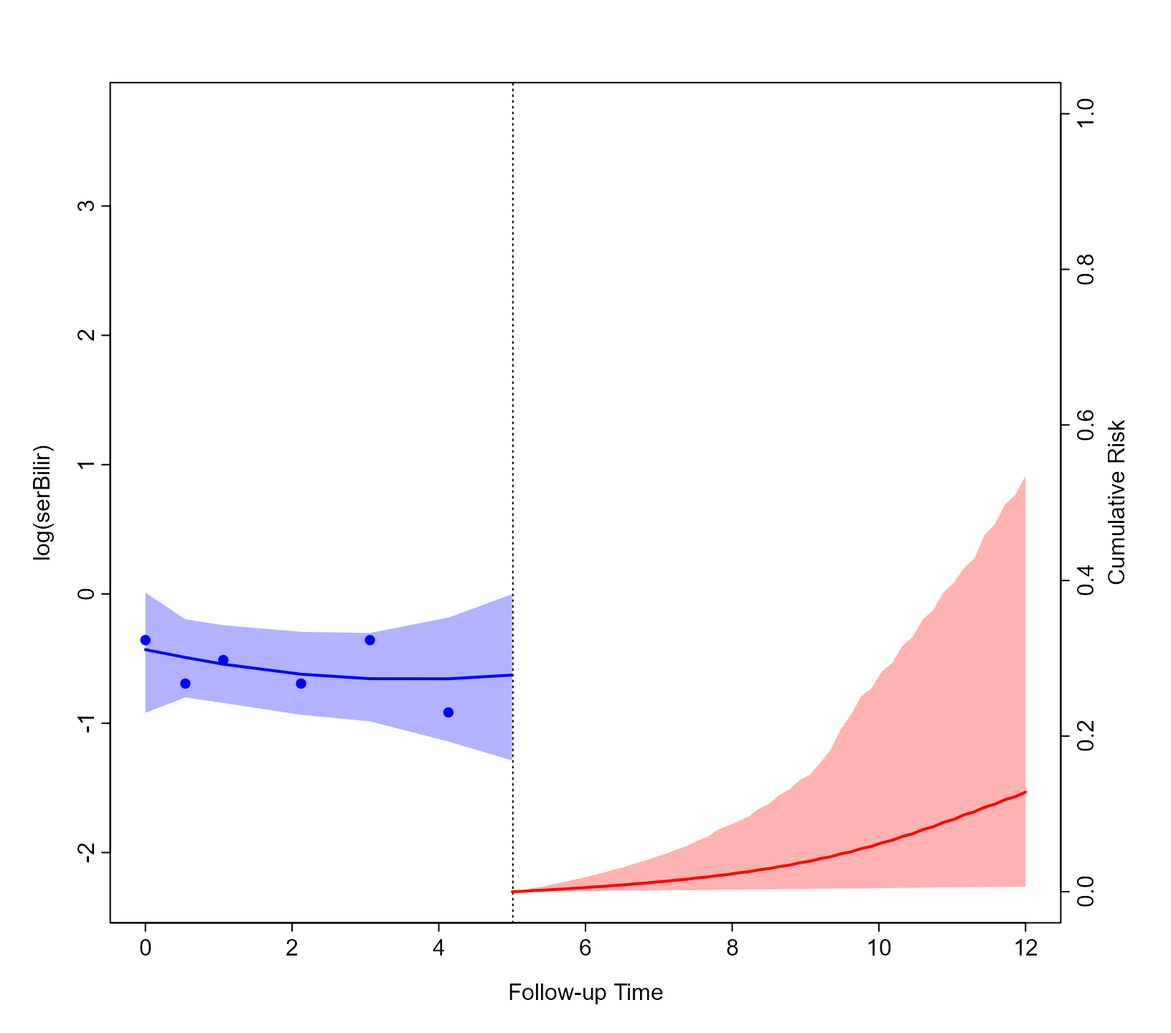
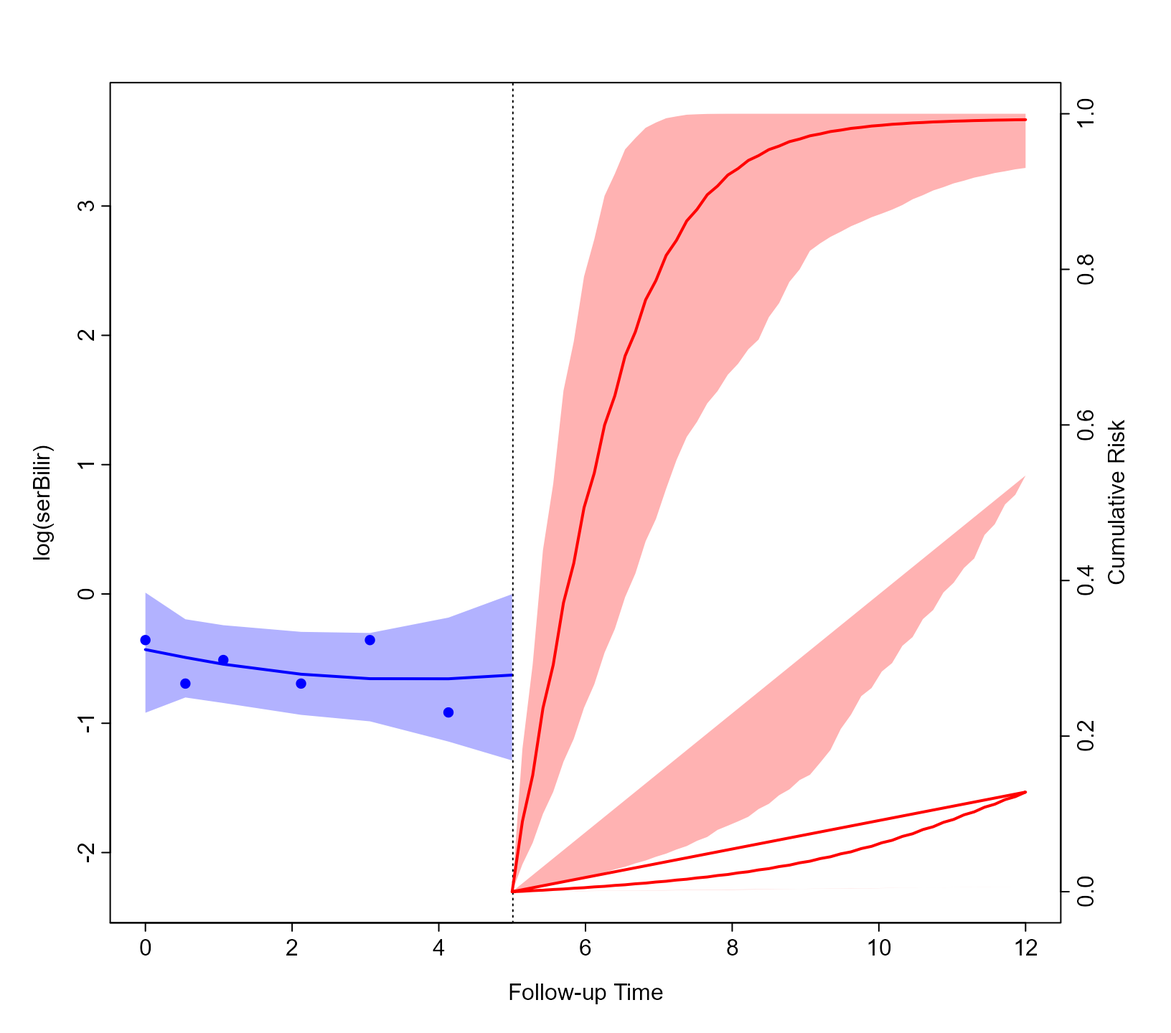
updates

Changed region(s): [[0.4375, 0.0938, 0.875, 0.875]]

diff --git a/docs/articles/Dynamic_Predictions.html b/docs/articles/Dynamic_Predictions.html
@@ -53,7 +53,7 @@
       </button>
       <span class="navbar-brand">
         <a class="navbar-link" href="../index.html">JMbayes2</a>
-        <span class="version label label-default" data-toggle="tooltip" data-placement="bottom" title="">0.1-84</span>
+        <span class="version label label-default" data-toggle="tooltip" data-placement="bottom" title="">0.1-85</span>
       </span>
     </div>
 
@@ -122,7 +122,7 @@
       <h1 data-toc-skip>Dynamic Predictions</h1>
                         <h4 data-toc-skip class="author">Dimitris Rizopoulos</h4>
             
-            <h4 data-toc-skip class="date">2021-12-08</h4>
+            <h4 data-toc-skip class="date">2021-12-17</h4>
       
       <small class="dont-index">Source: <a href="https://github.com/drizopoulos/JMbayes2/blob/HEAD/vignettes/Dynamic_Predictions.Rmd" class="external-link"><code>vignettes/Dynamic_Predictions.Rmd</code></a></small>
       <div class="hidden name"><code>Dynamic_Predictions.Rmd</code></div>
@@ -218,9 +218,11 @@
      fill_CI_long <span class="op">=</span> <span class="fu"><a href="https://rdrr.io/r/base/c.html" class="external-link">c</a></span><span class="op">(</span><span class="st">"#F25C7880"</span>, <span class="st">"#D973B580"</span>, <span class="st">"#F2832280"</span><span class="op">)</span>,
      fill_CI_event <span class="op">=</span> <span class="st">"#F7F7FF80"</span>,
      pos_ylab_long <span class="op">=</span> <span class="fu"><a href="https://rdrr.io/r/base/c.html" class="external-link">c</a></span><span class="op">(</span><span class="fl">1.9</span>, <span class="fl">1.9</span>, <span class="fl">0.08</span><span class="op">)</span><span class="op">)</span></code></pre></div>
+<pre><code><span class="co">#&gt; Warning in min(x): no non-missing arguments to min; returning Inf</span>
+<span class="co">#&gt; Warning in max(x): no non-missing arguments to max; returning -Inf</span></code></pre>
 <p><img src="Dynamic_Predictions_files/figure-html/unnamed-chunk-12-1.png" width="816" style="display: block; margin: auto;"></p>
 <p>We evaluate the discriminative capability of the model using ROC methodology. We calculate the components of the ROC curve using information up to year five, and we are interested in events occurring within a three-year window. That is discriminating between patients who will get the event in the interval <code>(t0, t0 + Dt]</code>, (i.e., in our case <span class="math inline">\(T_j \in (5, 8]\)</span>) from patients who will survive at least 9 years (i.e., <span class="math inline">\(T_j &gt; 8\)</span>). The calculations are performed with the following call to <code><a href="../reference/accuracy.html">tvROC()</a></code>:</p>
-<div class="sourceCode" id="cb12"><pre class="downlit sourceCode r">
+<div class="sourceCode" id="cb13"><pre class="downlit sourceCode r">
 <code class="sourceCode R"><span class="va">pbc2</span><span class="op">$</span><span class="va">event</span> <span class="op">&lt;-</span> <span class="fu"><a href="https://rdrr.io/r/base/numeric.html" class="external-link">as.numeric</a></span><span class="op">(</span><span class="va">pbc2</span><span class="op">$</span><span class="va">status</span> <span class="op">!=</span> <span class="st">"alive"</span><span class="op">)</span>
 <span class="va">roc</span> <span class="op">&lt;-</span> <span class="fu"><a href="../reference/accuracy.html">tvROC</a></span><span class="op">(</span><span class="va">jointFit</span>, newdata <span class="op">=</span> <span class="va">pbc2</span>, Tstart <span class="op">=</span> <span class="va">t0</span>, Dt <span class="op">=</span> <span class="fl">3</span><span class="op">)</span>
 <span class="va">roc</span>
@@ -297,7 +299,7 @@
 <span class="co">#&gt; 64    0.98 1.00000000 0.01297720 1.00000000 0.003106970</span></code></pre></div>
 <p>In the first line we define the event indicator as we did in the <code>pbc2.id</code> data.frame. The cut-point with the asterisk on the right maximizes the <a href="https://en.wikipedia.org/wiki/Youden%27s_J_statistic" class="external-link">Youden’s index</a>. To depict the ROC curve, we use the corresponding <code><a href="https://rdrr.io/r/graphics/plot.default.html" class="external-link">plot()</a></code> method: <img src="Dynamic_Predictions_files/figure-html/unnamed-chunk-14-1.png" width="816" style="display: block; margin: auto;"></p>
 <p>The area under the ROC curve is calculated with the <code><a href="../reference/accuracy.html">tvAUC()</a></code> function:</p>
-<div class="sourceCode" id="cb13"><pre class="downlit sourceCode r">
+<div class="sourceCode" id="cb14"><pre class="downlit sourceCode r">
 <code class="sourceCode R"><span class="fu"><a href="../reference/accuracy.html">tvAUC</a></span><span class="op">(</span><span class="va">roc</span><span class="op">)</span>
 <span class="co">#&gt; </span>
 <span class="co">#&gt;  Time-dependent AUC for the Joint Model jointFit</span>
@@ -308,12 +310,12 @@
 <p>This function either accepts an object of class <code>tvROC</code> or of class <code>jm</code>. In the latter case, the user must also provide the <code>newdata</code>, <code>Tstart</code> and <code>Dt</code> or <code>Thoriz</code> arguments. Here we have used the same dataset as the one to fit the model, but, in principle, discrimination could be (better) assessed in another dataset.</p>
 <p>To assess the accuracy of the predictions we produce a calibration plot: <img src="Dynamic_Predictions_files/figure-html/unnamed-chunk-16-1.png" width="816" style="display: block; margin: auto;"></p>
 <p>The syntax of the <code><a href="../reference/accuracy.html">calibration_plot()</a></code> function is almost identical to that of <code><a href="../reference/accuracy.html">tvROC()</a></code>. The kernel density estimation is of the estimated probabilities <span class="math inline">\(\pi_j(t + \Delta t \mid t) = \pi_j(8 \mid 5)\)</span> for all individuals at risk at year <code>t0</code> in the data frame provided in the <code>newdata</code> argument. Using the <code><a href="../reference/accuracy.html">calibration_metrics()</a></code> function we can also calculate metrics for the accuracy of predictions:</p>
-<div class="sourceCode" id="cb14"><pre class="downlit sourceCode r">
+<div class="sourceCode" id="cb15"><pre class="downlit sourceCode r">
 <code class="sourceCode R"><span class="fu"><a href="../reference/accuracy.html">calibration_metrics</a></span><span class="op">(</span><span class="va">jointFit</span>, <span class="va">pbc2</span>, Tstart <span class="op">=</span> <span class="fl">5</span>, Dt <span class="op">=</span> <span class="fl">3</span><span class="op">)</span>
 <span class="co">#&gt;        ICI        E50        E90 </span>
 <span class="co">#&gt; 0.04776743 0.02707094 0.12397622</span></code></pre></div>
 <p>The ICI is the mean absolute difference between the observed and predicted probabilities, E50 is the median absolute difference, and E90 is the 90% percentile of the absolute differences. Finally, we calculate the Brier score as an overall measure of predictive performance. This is computed with the <code><a href="../reference/accuracy.html">tvBrier()</a></code> function:</p>
-<div class="sourceCode" id="cb15"><pre class="downlit sourceCode r">
+<div class="sourceCode" id="cb16"><pre class="downlit sourceCode r">
 <code class="sourceCode R"><span class="fu"><a href="../reference/accuracy.html">tvBrier</a></span><span class="op">(</span><span class="va">jointFit</span>, newdata <span class="op">=</span> <span class="va">pbc2</span>, Tstart <span class="op">=</span> <span class="va">t0</span>, Dt <span class="op">=</span> <span class="fl">3</span><span class="op">)</span>
 <span class="co">#&gt; </span>
 <span class="co">#&gt; Prediction Error for the Joint Model jointFit</span>

diff --git a/docs/articles/Competing_Risks.html b/docs/articles/Competing_Risks.html
@@ -53,7 +53,7 @@
       </button>
       <span class="navbar-brand">
         <a class="navbar-link" href="../index.html">JMbayes2</a>
-        <span class="version label label-default" data-toggle="tooltip" data-placement="bottom" title="">0.1-84</span>
+        <span class="version label label-default" data-toggle="tooltip" data-placement="bottom" title="">0.1-85</span>
       </span>
     </div>
 
@@ -122,7 +122,7 @@
       <h1 data-toc-skip>Competing Risks</h1>
                         <h4 data-toc-skip class="author">Dimitris Rizopoulos</h4>
             
-            <h4 data-toc-skip class="date">2021-12-08</h4>
+            <h4 data-toc-skip class="date">2021-12-17</h4>
       
       <small class="dont-index">Source: <a href="https://github.com/drizopoulos/JMbayes2/blob/HEAD/vignettes/Competing_Risks.Rmd" class="external-link"><code>vignettes/Competing_Risks.Rmd</code></a></small>
       <div class="hidden name"><code>Competing_Risks.Rmd</code></div>
@@ -242,7 +242,25 @@
 <span class="co">#&gt; iterations per chain: 25000 </span>
 <span class="co">#&gt; burn-in per chain: 5000 </span>
 <span class="co">#&gt; thinning: 5 </span>
-<span class="co">#&gt; time: 9.5 min</span></code></pre></div>
+<span class="co">#&gt; time: 7.6 min</span></code></pre></div>
+</div>
+<div class="section level2">
+<h2 id="dynamic-predictions">Dynamic Predictions<a class="anchor" aria-label="anchor" href="#dynamic-predictions"></a>
+</h2>
+<div class="sourceCode" id="cb6"><pre class="downlit sourceCode r">
+<code class="sourceCode R"><span class="va">ND_long</span> <span class="op">&lt;-</span> <span class="va">pbc2</span><span class="op">[</span><span class="va">pbc2</span><span class="op">$</span><span class="va">id</span> <span class="op">==</span> <span class="fl">81</span>, <span class="op">]</span>
+<span class="va">ND_event</span> <span class="op">&lt;-</span> <span class="va">pbc2.idCR</span><span class="op">[</span><span class="va">pbc2.idCR</span><span class="op">$</span><span class="va">id</span> <span class="op">==</span> <span class="fl">81</span>, <span class="op">]</span>
+<span class="va">ND_event</span><span class="op">$</span><span class="va">status2</span> <span class="op">&lt;-</span> <span class="fl">0</span>
+<span class="va">ND</span> <span class="op">&lt;-</span> <span class="fu"><a href="https://rdrr.io/r/base/list.html" class="external-link">list</a></span><span class="op">(</span>newdataL <span class="op">=</span> <span class="va">ND_long</span>, newdataE <span class="op">=</span> <span class="va">ND_event</span><span class="op">)</span>
+
+<span class="va">predLong</span> <span class="op">&lt;-</span> <span class="fu"><a href="https://rdrr.io/r/stats/predict.html" class="external-link">predict</a></span><span class="op">(</span><span class="va">jFit_CR</span>, newdata <span class="op">=</span> <span class="va">ND</span>, return_newdata <span class="op">=</span> <span class="cn">TRUE</span>,
+                    times <span class="op">=</span> <span class="fu"><a href="https://rdrr.io/r/base/seq.html" class="external-link">seq</a></span><span class="op">(</span><span class="fl">6.5</span>, <span class="fl">15</span>, length <span class="op">=</span> <span class="fl">25</span><span class="op">)</span><span class="op">)</span>
+
+<span class="va">predEvent</span> <span class="op">&lt;-</span> <span class="fu"><a href="https://rdrr.io/r/stats/predict.html" class="external-link">predict</a></span><span class="op">(</span><span class="va">jFit_CR</span>, newdata <span class="op">=</span> <span class="va">ND</span>, return_newdata <span class="op">=</span> <span class="cn">TRUE</span>,
+                     process <span class="op">=</span> <span class="st">"event"</span><span class="op">)</span>
+
+<span class="fu"><a href="https://rdrr.io/r/graphics/plot.default.html" class="external-link">plot</a></span><span class="op">(</span><span class="va">predLong</span>, <span class="va">predEvent</span>, outcomes <span class="op">=</span> <span class="fl">1</span><span class="op">:</span><span class="fl">2</span><span class="op">)</span></code></pre></div>
+<p><img src="Competing_Risks_files/figure-html/unnamed-chunk-1-1.png" width="700"></p>
 </div>
 </div>
   </div>

diff --git a/docs/articles/JMbayes2.html b/docs/articles/JMbayes2.html
@@ -53,7 +53,7 @@
       </button>
       <span class="navbar-brand">
         <a class="navbar-link" href="../index.html">JMbayes2</a>
-        <span class="version label label-default" data-toggle="tooltip" data-placement="bottom" title="">0.1-84</span>
+        <span class="version label label-default" data-toggle="tooltip" data-placement="bottom" title="">0.1-85</span>
       </span>
     </div>
 
@@ -122,7 +122,7 @@
       <h1 data-toc-skip>Univariate and Multivariate Joint Models</h1>
                         <h4 data-toc-skip class="author">Dimitris Rizopoulos</h4>
             
-            <h4 data-toc-skip class="date">2021-12-08</h4>
+            <h4 data-toc-skip class="date">2021-12-17</h4>
       
       <small class="dont-index">Source: <a href="https://github.com/drizopoulos/JMbayes2/blob/HEAD/vignettes/JMbayes2.Rmd" class="external-link"><code>vignettes/JMbayes2.Rmd</code></a></small>
       <div class="hidden name"><code>JMbayes2.Rmd</code></div>
@@ -185,7 +185,7 @@
 <span class="co">#&gt; iterations per chain: 3500 </span>
 <span class="co">#&gt; burn-in per chain: 500 </span>
 <span class="co">#&gt; thinning: 1 </span>
-<span class="co">#&gt; time: 15 sec</span></code></pre></div>
+<span class="co">#&gt; time: 14 sec</span></code></pre></div>
 <p>The output of the <code><a href="https://rdrr.io/r/base/summary.html" class="external-link">summary()</a></code> method provides some descriptive statistics of the sample at hand, followed by some fit statistics based on the marginal (random effects are integrated out using the Laplace approximation) and conditional on the random effects log-likelihood functions, followed by the estimated variance-covariance matrix for the random effects, followed by the estimates for the survival submodel, followed by the estimates for the longitudinal submodel(s), and finally some information for the MCMC.</p>
 <p>By default, <code><a href="../reference/jm.html">jm()</a></code> adds the subject-specific linear predictor of the mixed model as a time-varying covariate in the survival relative risk model. In the output this is named as <code>value(log(serBilir))</code> to denote that, by default, the current value functional form is used. That is, we assume that the risk at a specific time <span class="math inline">\(t\)</span> is associated with the value of the linear predictor of the longitudinal outcome at the same time point <span class="math inline">\(t\)</span>.</p>
 <p>Standard MCMC diagnostics are available to evaluate convergence. For example, the traceplot for the association coefficient <code>value(log(serBilir))</code> is produced with the following syntax:</p>
@@ -269,7 +269,7 @@
 <span class="co">#&gt; iterations per chain: 12000 </span>
 <span class="co">#&gt; burn-in per chain: 2000 </span>
 <span class="co">#&gt; thinning: 5 </span>
-<span class="co">#&gt; time: 1.7 min</span></code></pre></div>
+<span class="co">#&gt; time: 1.6 min</span></code></pre></div>
 <p>The output for the survival submodel contains now the estimated coefficients for <code>value(prothrombin)</code> and <code>value(ascites)</code>, and parameter estimates for all three longitudinal submodels.</p>
 </div>
 <div class="section level2">
@@ -347,7 +347,7 @@
 <span class="co">#&gt; iterations per chain: 12000 </span>
 <span class="co">#&gt; burn-in per chain: 2000 </span>
 <span class="co">#&gt; thinning: 5 </span>
-<span class="co">#&gt; time: 1.8 min</span></code></pre></div>
+<span class="co">#&gt; time: 1.7 min</span></code></pre></div>
 <p>As seen above, the <code>functional_forms</code> argument is a named list with elements corresponding to the longitudinal outcomes. If a longitudinal outcome is not specified in this list, then the default, value functional form, is used for that outcome. Each element of the list should be a one-sided R formula in which the functions <code><a href="../reference/jm.html">value()</a></code>, <code><a href="../reference/jm.html">slope()</a></code> and <code><a href="../reference/jm.html">area()</a></code> can be used. Interaction terms between the functional forms and other (baseline) covariates are also allowed.</p>
 </div>
 <div class="section level2">

diff --git a/docs/articles/Transformation_Functions.html b/docs/articles/Transformation_Functions.html
@@ -53,7 +53,7 @@
       </button>
       <span class="navbar-brand">
         <a class="navbar-link" href="../index.html">JMbayes2</a>
-        <span class="version label label-default" data-toggle="tooltip" data-placement="bottom" title="">0.1-84</span>
+        <span class="version label label-default" data-toggle="tooltip" data-placement="bottom" title="">0.1-85</span>
       </span>
     </div>
 
@@ -122,7 +122,7 @@
       <h1 data-toc-skip>Transformation Functions for Functional Forms</h1>
                         <h4 data-toc-skip class="author">Dimitris Rizopoulos</h4>
             
-            <h4 data-toc-skip class="date">2021-12-08</h4>
+            <h4 data-toc-skip class="date">2021-12-17</h4>
       
       <small class="dont-index">Source: <a href="https://github.com/drizopoulos/JMbayes2/blob/HEAD/vignettes/Transformation_Functions.Rmd" class="external-link"><code>vignettes/Transformation_Functions.Rmd</code></a></small>
       <div class="hidden name"><code>Transformation_Functions.Rmd</code></div>
@@ -184,7 +184,7 @@
 <span class="co">#&gt; iterations per chain: 3500 </span>
 <span class="co">#&gt; burn-in per chain: 500 </span>
 <span class="co">#&gt; thinning: 1 </span>
-<span class="co">#&gt; time: 14 sec</span></code></pre></div>
+<span class="co">#&gt; time: 13 sec</span></code></pre></div>
 <p>In the output this is named as <code>value(hepatomegaly)</code> to denote that the current value functional form is used. That is, we assume that the risk at a specific time <span class="math inline">\(t\)</span> is associated with the value of the linear predictor of the longitudinal outcome at the same time point <span class="math inline">\(t\)</span>. In this particular case, the subject-specific linear predictor denotes the log odds of experiencing hepatomegaly at time <span class="math inline">\(t\)</span>.</p>
 </div>
 <div class="section level2">
@@ -229,7 +229,7 @@
 <span class="co">#&gt; iterations per chain: 3500 </span>
 <span class="co">#&gt; burn-in per chain: 500 </span>
 <span class="co">#&gt; thinning: 1 </span>
-<span class="co">#&gt; time: 16 sec</span></code></pre></div>
+<span class="co">#&gt; time: 14 sec</span></code></pre></div>
 <p>Other available functions to use in the definition of the <code>functional_forms</code> argument are <code><a href="../reference/jm.html">vexp()</a></code> for calculating the exponent, <code><a href="../reference/jm.html">vlog()</a></code> for calculating the natural logarithm, and <code><a href="../reference/jm.html">vsqrt()</a></code> for calculating the square root.</p>
 <p>If we want to include the time-varying slope of the transformed linear predictor, we also have the <code><a href="../reference/jm.html">Dexpit()</a></code> and <code><a href="../reference/jm.html">Dexp()</a></code> functions available. As an example, we extend <code>jointFit2</code> by including the derivative of the <span class="math inline">\(\mbox{expit}()\)</span> transformation:</p>
 <div class="sourceCode" id="cb5"><pre class="downlit sourceCode r">
@@ -276,7 +276,7 @@
 <span class="co">#&gt; iterations per chain: 3500 </span>
 <span class="co">#&gt; burn-in per chain: 500 </span>
 <span class="co">#&gt; thinning: 1 </span>
-<span class="co">#&gt; time: 17 sec</span></code></pre></div>
+<span class="co">#&gt; time: 16 sec</span></code></pre></div>
 <p>The call to <code>Dexpit(slope(hepatomegaly))</code> is internally transformed to <code>Dexpit(value(hepatomegaly)):slope(hepatomegaly)</code>, which calculates the derivative of the <span class="math inline">\(\mbox{expit}()\)</span> evaluated at the linear predictor times the derivative of the linear predictor. This is because <span class="math display">\[\frac{d}{dt} \mbox{expit}\{\eta(t)\} = \mbox{expit}\{\eta(t)\} \, \Bigl [ 1 - \mbox{expit}\{\eta(t)\} \Bigr ] \times \frac{d}{dt}\eta(t)\]</span></p>
 </div>
 <div class="section level2">

diff --git a/docs/articles/Non_Gaussian_Mixed_Models.html b/docs/articles/Non_Gaussian_Mixed_Models.html
@@ -53,7 +53,7 @@
       </button>
       <span class="navbar-brand">
         <a class="navbar-link" href="../index.html">JMbayes2</a>
-        <span class="version label label-default" data-toggle="tooltip" data-placement="bottom" title="">0.1-84</span>
+        <span class="version label label-default" data-toggle="tooltip" data-placement="bottom" title="">0.1-85</span>
       </span>
     </div>
 
@@ -122,7 +122,7 @@
       <h1 data-toc-skip>Non-Gaussian Mixed Models</h1>
                         <h4 data-toc-skip class="author">Dimitris Rizopoulos</h4>
             
-            <h4 data-toc-skip class="date">2021-12-08</h4>
+            <h4 data-toc-skip class="date">2021-12-17</h4>
       
       <small class="dont-index">Source: <a href="https://github.com/drizopoulos/JMbayes2/blob/HEAD/vignettes/Non_Gaussian_Mixed_Models.Rmd" class="external-link"><code>vignettes/Non_Gaussian_Mixed_Models.Rmd</code></a></small>
       <div class="hidden name"><code>Non_Gaussian_Mixed_Models.Rmd</code></div>
@@ -265,7 +265,7 @@
 <span class="co">#&gt; iterations per chain: 3500 </span>
 <span class="co">#&gt; burn-in per chain: 500 </span>
 <span class="co">#&gt; thinning: 1 </span>
-<span class="co">#&gt; time: 18 sec</span></code></pre></div>
+<span class="co">#&gt; time: 17 sec</span></code></pre></div>
 <div align="right">
 <a href="#top">Back to top</a>
 </div>
@@ -400,7 +400,7 @@
 <span class="co">#&gt; iterations per chain: 3500 </span>
 <span class="co">#&gt; burn-in per chain: 500 </span>
 <span class="co">#&gt; thinning: 1 </span>
-<span class="co">#&gt; time: 13 sec</span></code></pre></div>
+<span class="co">#&gt; time: 12 sec</span></code></pre></div>
 </div>
 <div class="section level2">
 <h2 id="studentss-t-mixed-models">Students’s-t mixed models<a class="anchor" aria-label="anchor" href="#studentss-t-mixed-models"></a>
@@ -528,7 +528,7 @@
 <span class="co">#&gt; iterations per chain: 3500 </span>
 <span class="co">#&gt; burn-in per chain: 500 </span>
 <span class="co">#&gt; thinning: 1 </span>
-<span class="co">#&gt; time: 13 sec</span></code></pre></div>
+<span class="co">#&gt; time: 12 sec</span></code></pre></div>
 <div align="right">
 <a href="#top">Back to top</a>
 </div>
@@ -662,7 +662,7 @@
 <span class="co">#&gt; iterations per chain: 3500 </span>
 <span class="co">#&gt; burn-in per chain: 500 </span>
 <span class="co">#&gt; thinning: 1 </span>
-<span class="co">#&gt; time: 27 sec</span></code></pre></div>
+<span class="co">#&gt; time: 23 sec</span></code></pre></div>
 <div align="right">
 <a href="#top">Back to top</a>
 </div>
@@ -800,7 +800,7 @@
 <span class="co">#&gt; iterations per chain: 3500 </span>
 <span class="co">#&gt; burn-in per chain: 500 </span>
 <span class="co">#&gt; thinning: 1 </span>
-<span class="co">#&gt; time: 47 sec</span></code></pre></div>
+<span class="co">#&gt; time: 45 sec</span></code></pre></div>
 <div align="right">
 <a href="#top">Back to top</a>
 </div>

diff --git a/docs/reference/jm.html b/docs/reference/jm.html
@@ -23,7 +23,7 @@
       </button>
       <span class="navbar-brand">
         <a class="navbar-link" href="../index.html">JMbayes2</a>
-        <span class="version label label-default" data-toggle="tooltip" data-placement="bottom" title="">0.1-84</span>
+        <span class="version label label-default" data-toggle="tooltip" data-placement="bottom" title="">0.1-85</span>
       </span>
     </div>
 
@@ -434,7 +434,7 @@ and <code>"backward"</code>.</p></dd>
 <span class="r-out co"><span class="r-pr">#&gt;</span> iterations per chain: 11000 </span>
 <span class="r-out co"><span class="r-pr">#&gt;</span> burn-in per chain: 1000 </span>
 <span class="r-out co"><span class="r-pr">#&gt;</span> thinning: 1 </span>
-<span class="r-out co"><span class="r-pr">#&gt;</span> time: 35 sec</span>
+<span class="r-out co"><span class="r-pr">#&gt;</span> time: 32 sec</span>
 <span class="r-in"><span class="fu"><a href="coda_methods.html">traceplot</a></span><span class="op">(</span><span class="va">joint_model_fit_1</span><span class="op">)</span></span>
 <span class="r-plt img"><img src="jm-1.png" alt="" width="700" height="433"></span>
 <span class="r-plt img"><img src="jm-2.png" alt="" width="700" height="433"></span>
@@ -553,7 +553,7 @@ and <code>"backward"</code>.</p></dd>
 <span class="r-out co"><span class="r-pr">#&gt;</span> iterations per chain: 11000 </span>
 <span class="r-out co"><span class="r-pr">#&gt;</span> burn-in per chain: 1000 </span>
 <span class="r-out co"><span class="r-pr">#&gt;</span> thinning: 1 </span>
-<span class="r-out co"><span class="r-pr">#&gt;</span> time: 1.3 min</span>
+<span class="r-out co"><span class="r-pr">#&gt;</span> time: 1.2 min</span>
 <span class="r-in"><span class="fu"><a href="coda_methods.html">traceplot</a></span><span class="op">(</span><span class="va">joint_model_fit_2</span><span class="op">)</span></span>
 <span class="r-plt img"><img src="jm-28.png" alt="" width="700" height="433"></span>
 <span class="r-plt img"><img src="jm-29.png" alt="" width="700" height="433"></span>
@@ -716,7 +716,7 @@ and <code>"backward"</code>.</p></dd>
 <span class="r-out co"><span class="r-pr">#&gt;</span> iterations per chain: 11000 </span>
 <span class="r-out co"><span class="r-pr">#&gt;</span> burn-in per chain: 1000 </span>
 <span class="r-out co"><span class="r-pr">#&gt;</span> thinning: 1 </span>
-<span class="r-out co"><span class="r-pr">#&gt;</span> time: 1.6 min</span>
+<span class="r-out co"><span class="r-pr">#&gt;</span> time: 1.4 min</span>
 <span class="r-in"></span>
 <span class="r-in"><span class="co"># }</span></span>
 </code></pre></div>

diff --git a/docs/reference/predict.html b/docs/reference/predict.html
@@ -23,7 +23,7 @@
       </button>
       <span class="navbar-brand">
         <a class="navbar-link" href="../index.html">JMbayes2</a>
-        <span class="version label label-default" data-toggle="tooltip" data-placement="bottom" title="">0.1-84</span>
+        <span class="version label label-default" data-toggle="tooltip" data-placement="bottom" title="">0.1-85</span>
       </span>
     </div>
 
@@ -94,7 +94,7 @@
   process <span class="op">=</span> <span class="fu"><a href="https://rdrr.io/r/base/c.html" class="external-link">c</a></span><span class="op">(</span><span class="st">"longitudinal"</span>, <span class="st">"event"</span><span class="op">)</span>,
   type_pred <span class="op">=</span> <span class="fu"><a href="https://rdrr.io/r/base/c.html" class="external-link">c</a></span><span class="op">(</span><span class="st">"response"</span>, <span class="st">"link"</span><span class="op">)</span>,
   type <span class="op">=</span> <span class="fu"><a href="https://rdrr.io/r/base/c.html" class="external-link">c</a></span><span class="op">(</span><span class="st">"subject_specific"</span>, <span class="st">"mean_subject"</span><span class="op">)</span>,
-  level <span class="op">=</span> <span class="fl">0.95</span>, return_newdata <span class="op">=</span> <span class="cn">FALSE</span>,
+  level <span class="op">=</span> <span class="fl">0.95</span>, return_newdata <span class="op">=</span> <span class="cn">FALSE</span>, return_mcmc <span class="op">=</span> <span class="cn">FALSE</span>,
   n_samples <span class="op">=</span> <span class="fl">200L</span>, n_mcmc <span class="op">=</span> <span class="fl">55L</span>, cores <span class="op">=</span> <span class="cn">NULL</span>, seed <span class="op">=</span> <span class="fl">123L</span>,
   <span class="va">...</span><span class="op">)</span>
 
@@ -130,6 +130,8 @@
 <dd><p>the level of the credible interval.</p></dd>
 <dt>return_newdata</dt>
 <dd><p>logical; should <code><a href="https://rdrr.io/r/stats/predict.html" class="external-link">predict()</a></code> return the predictions as extra columns in <code>newdata</code> and <code>newdata2</code>.</p></dd>
+<dt>return_mcmc</dt>
+<dd><p>logical; if <code>TRUE</code> the mcmc sample for the predictions is returned. It can be <code>TRUE</code> only in conjuction with <code>return_newdata</code> being <code>FALSE</code>.</p></dd>
 <dt>n_samples</dt>
 <dd><p>the number of samples to use from the original MCMC sample of <code>object</code>.</p></dd>
 <dt>n_mcmc</dt>

diff --git a/docs/reference/JMbayes2.html b/docs/reference/JMbayes2.html
@@ -23,7 +23,7 @@
       </button>
       <span class="navbar-brand">
         <a class="navbar-link" href="../index.html">JMbayes2</a>
-        <span class="version label label-default" data-toggle="tooltip" data-placement="bottom" title="">0.1-84</span>
+        <span class="version label label-default" data-toggle="tooltip" data-placement="bottom" title="">0.1-85</span>
       </span>
     </div>
 
@@ -92,7 +92,7 @@
     <div id="details">
     <h2>Details</h2>
     
-<table class="table table"><tr><td>Package:</td><td>JMbayes2</td></tr><tr><td>Type:</td><td>Package</td></tr><tr><td>Version:</td><td>0.1-84</td></tr><tr><td>Date:</td><td>2021-12-08</td></tr><tr><td>License:</td><td>GPL (&gt;=3)</td></tr></table><p>This package fits joint models for longitudinal and time-to-event data. It can accommodate multiple longitudinal outcomes of different type (e.g., continuous, dichotomous, ordinal, counts), and assuming different distributions, i.e., Gaussian, Student's-t, Gamma, Beta, unit Lindley, censored Normal, Binomial, Poisson, Negative Binomial, and Beta-Binomial. For the event time process, right, left and interval censored data can be handled, while competing risks and multi-sate processes are also covered.</p>
+<table class="table table"><tr><td>Package:</td><td>JMbayes2</td></tr><tr><td>Type:</td><td>Package</td></tr><tr><td>Version:</td><td>0.1-85</td></tr><tr><td>Date:</td><td>2021-12-16</td></tr><tr><td>License:</td><td>GPL (&gt;=3)</td></tr></table><p>This package fits joint models for longitudinal and time-to-event data. It can accommodate multiple longitudinal outcomes of different type (e.g., continuous, dichotomous, ordinal, counts), and assuming different distributions, i.e., Gaussian, Student's-t, Gamma, Beta, unit Lindley, censored Normal, Binomial, Poisson, Negative Binomial, and Beta-Binomial. For the event time process, right, left and interval censored data can be handled, while competing risks and multi-sate processes are also covered.</p>
 <p><span class="pkg">JMbayes2</span> fits joint models using Markov chain Monte Carlo algorithms implemented in C++. The package also offers several utility functions that can extract useful information from
 fitted joint models. The most important of those are included in the
 <b>See also</b> Section below.</p>

diff --git a/docs/articles/Multi_State_Processes.html b/docs/articles/Multi_State_Processes.html
@@ -53,7 +53,7 @@
       </button>
       <span class="navbar-brand">
         <a class="navbar-link" href="../index.html">JMbayes2</a>
-        <span class="version label label-default" data-toggle="tooltip" data-placement="bottom" title="">0.1-84</span>
+        <span class="version label label-default" data-toggle="tooltip" data-placement="bottom" title="">0.1-85</span>
       </span>
     </div>
 
@@ -122,7 +122,7 @@
       <h1 data-toc-skip>Multi-State Processes</h1>
                         <h4 data-toc-skip class="author">Grigorios Papageorgiou</h4>
             
-            <h4 data-toc-skip class="date">2021-12-08</h4>
+            <h4 data-toc-skip class="date">2021-12-17</h4>
       
       <small class="dont-index">Source: <a href="https://github.com/drizopoulos/JMbayes2/blob/HEAD/vignettes/Multi_State_Processes.Rmd" class="external-link"><code>vignettes/Multi_State_Processes.Rmd</code></a></small>
       <div class="hidden name"><code>Multi_State_Processes.Rmd</code></div>
@@ -379,7 +379,7 @@
 <span class="co">#&gt; iterations per chain: 10000 </span>
 <span class="co">#&gt; burn-in per chain: 500 </span>
 <span class="co">#&gt; thinning: 1 </span>
-<span class="co">#&gt; time: 3.4 min</span></code></pre></div>
+<span class="co">#&gt; time: 3 min</span></code></pre></div>
 <p>which differs from a default call to <code><a href="../reference/jm.html">jm()</a></code> by the addition of the <code>functional_forms</code> argument by which we specify that we want an “interaction” between the value of the marker and each transition which translates into a separate association parameter for the longitudinal marker and each transition.</p>
 </div>
 </div>

diff --git a/docs/reference/methods.html b/docs/reference/methods.html
@@ -23,7 +23,7 @@
       </button>
       <span class="navbar-brand">
         <a class="navbar-link" href="../index.html">JMbayes2</a>
-        <span class="version label label-default" data-toggle="tooltip" data-placement="bottom" title="">0.1-84</span>
+        <span class="version label label-default" data-toggle="tooltip" data-placement="bottom" title="">0.1-85</span>
       </span>
     </div>
 
@@ -285,7 +285,7 @@ than the total number of submodels, extracts from all of them.</p></dd>
 <span class="r-out co"><span class="r-pr">#&gt;</span> attr(,"response")</span>
 <span class="r-out co"><span class="r-pr">#&gt;</span> [1] 0</span>
 <span class="r-out co"><span class="r-pr">#&gt;</span> attr(,".Environment")</span>
-<span class="r-out co"><span class="r-pr">#&gt;</span> &lt;environment: 0x000000000f7a3820&gt;</span>
+<span class="r-out co"><span class="r-pr">#&gt;</span> &lt;environment: 0x0000000025287760&gt;</span>
 <span class="r-out co"><span class="r-pr">#&gt;</span> attr(,"predvars")</span>
 <span class="r-out co"><span class="r-pr">#&gt;</span> list(year)</span>
 <span class="r-out co"><span class="r-pr">#&gt;</span> attr(,"dataClasses")</span>

diff --git a/docs/404.html b/docs/404.html
@@ -52,7 +52,7 @@
       </button>
       <span class="navbar-brand">
         <a class="navbar-link" href="https://drizopoulos.github.io/JMbayes2/index.html">JMbayes2</a>
-        <span class="version label label-default" data-toggle="tooltip" data-placement="bottom" title="">0.1-84</span>
+        <span class="version label label-default" data-toggle="tooltip" data-placement="bottom" title="">0.1-85</span>
       </span>
     </div>
 

diff --git a/docs/articles/index.html b/docs/articles/index.html
@@ -23,7 +23,7 @@
       </button>
       <span class="navbar-brand">
         <a class="navbar-link" href="../index.html">JMbayes2</a>
-        <span class="version label label-default" data-toggle="tooltip" data-placement="bottom" title="">0.1-84</span>
+        <span class="version label label-default" data-toggle="tooltip" data-placement="bottom" title="">0.1-85</span>
       </span>
     </div>
 
